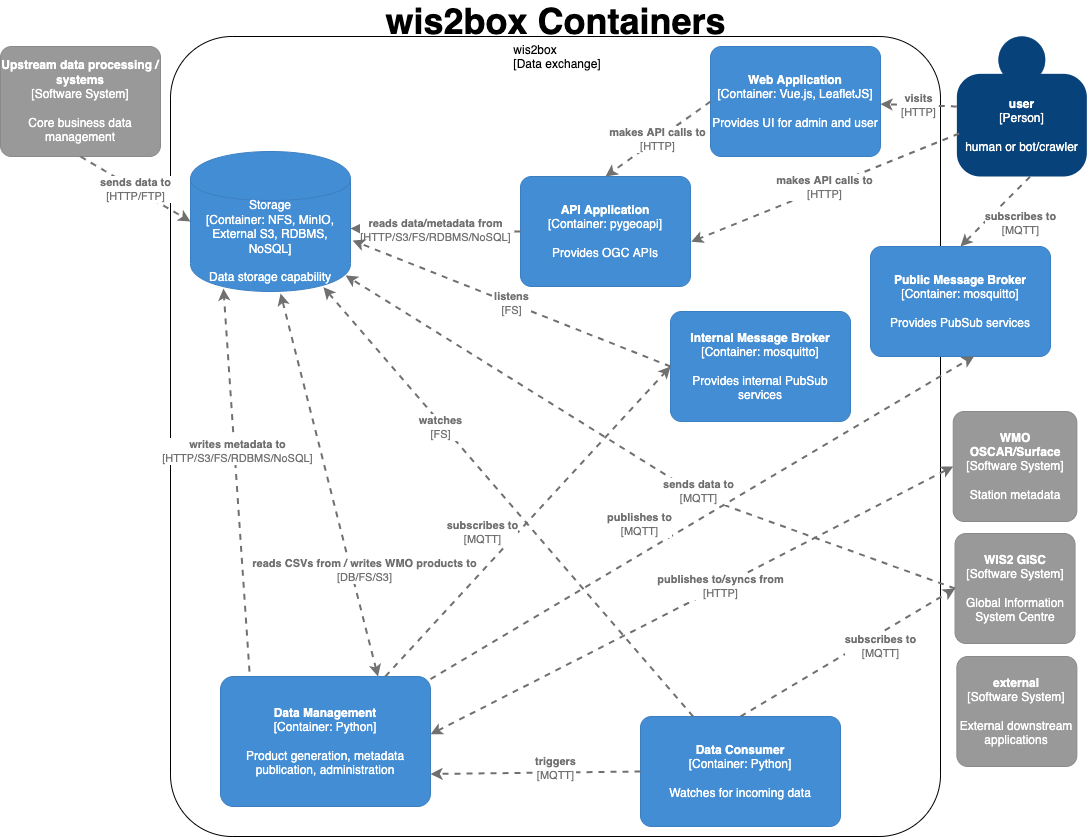
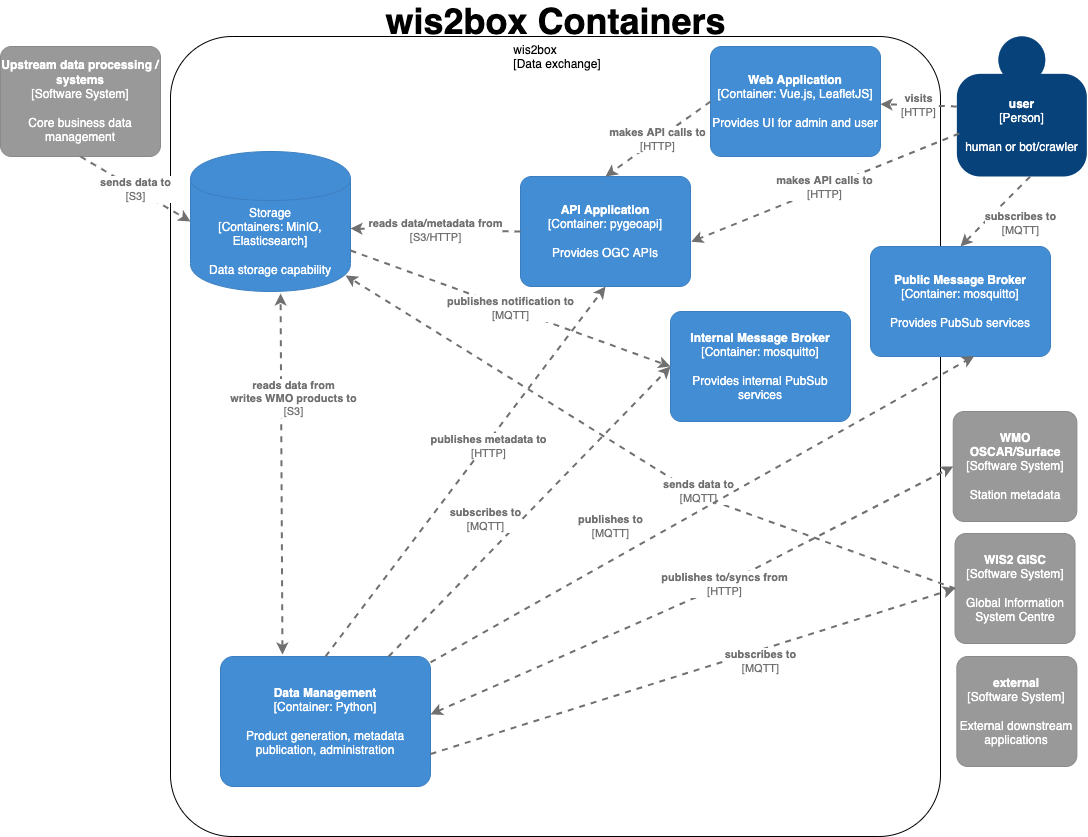
update documentation

diff --git a/docs/source/configuration.rst b/docs/source/configuration.rst
@@ -57,12 +57,13 @@ wis2box stores data in MinIO buckets.
 
     WIS2BOX_STORAGE_TYPE=S3
     WIS2BOX_STORAGE_SOURCE=http://minio:9000
-    WIS2BOX_STORAGE_USERNAME=minio # username for the storage-layer
-    WIS2BOX_STORAGE_PASSWORD=minio123 # password for the storage-layer
-    WIS2BOX_STORAGE_INCOMING=wis2box-incoming # name of the storage-bucket/folder for incoming files
-    WIS2BOX_STORAGE_PUBLIC=wis2box-public # name of the storage-bucket/folder for public files
-    WIS2BOX_STORAGE_CONFIG=wis2box-config # name of the storage-bucket/folder for configuration files
-    WIS2BOX_STORAGE_DATA_RETENTION_DAYS=7 # number of days to keep files in incoming and public
+    WIS2BOX_STORAGE_USERNAME=minio  # username for the storage-layer
+    WIS2BOX_STORAGE_PASSWORD=minio123  # password for the storage-layer
+    WIS2BOX_STORAGE_INCOMING=wis2box-incoming  # name of the storage-bucket/folder for incoming files
+    WIS2BOX_STORAGE_PUBLIC=wis2box-public  # name of the storage-bucket/folder for public files
+    WIS2BOX_STORAGE_ARCHIVE=wis2box-archive  # name of the storage-bucket/folder for archived data
+    WIS2BOX_STORAGE_CONFIG=wis2box-config  # name of the storage-bucket/folder for configuration files
+    WIS2BOX_STORAGE_DATA_RETENTION_DAYS=7  # number of days to keep files in incoming and public
 
 API
 ^^^
@@ -75,6 +76,7 @@ API configurations drive control of the OGC API setup.
     WIS2BOX_API_URL=http://localhost:8999/pygeoapi  # public landing page endpoint
     WIS2BOX_API_BACKEND_TYPE=Elasticsearch  # backend provider type
     WIS2BOX_API_BACKEND_URL=http://elasticsearch:9200  # internal backend connection URL
+    WIS2BOX_DOCKER_API_URL  # container name of API container (for internal communications/workflow)
 
 Logging
 ^^^^^^^
@@ -93,10 +95,11 @@ PubSub configuration provides connectivity information for the PubSub broker.
 
 .. code-block:: bash
 
-    WIS2BOX_BROKER_USERNAME=wis2box
-    WIS2BOX_BROKER_PASSWORD=wis2box
-    WIS2BOX_BROKER_HOST=mosquitto
-    WIS2BOX_BROKER_PUBLIC=mqtt://localhost:1883  # public MQTT url
+    WIS2BOX_BROKER_HOST=mosquitto  # the hostname of the internal broker
+    WIS2BOX_BROKER_PORT=1883  # the port of the internal broker
+    WIS2BOX_BROKER_USERNAME=wis2box  # the username of the internal broker
+    WIS2BOX_BROKER_PASSWORD=wis2box  # the password of the internal broker
+    WIS2BOX_BROKER_PUBLIC=mqtt://foo:bar@localhost:1883  # RFC 1738 URL of public broker endpoint
 
 
 Other

diff --git a/docs/source/how-wis2box-works.rst b/docs/source/how-wis2box-works.rst
@@ -6,9 +6,8 @@ How wis2box works
 wis2box is implemented in the spirit of the `Twelve-Factor App methodology`_.
 
 wis2box is a `Docker`_ and `Python`_-based platform with the capabilities
-for centres to integrate their data holdings and publish them to
-the WMO Information System with a plug and play capability supporting
-data publishing, discovery and access.
+for centres to publish their data holdings to the WMO Information System with
+a plug and play capability supporting data publishing, discovery and access.
 
 High level system context
 --------------------------
@@ -53,11 +52,13 @@ wis2box containers:
 
 Container functionality can be described as follows:
 
-* **Data Consumer**: the data entry point of wis2box. Data pipelines and
-  workflow begins here
+* **Storage**: core data and metadata persistence, the initial data entry
+  point of wis2box. Data pipelines and workflow are triggered from here
+* **Internal Message Broker**: internal message bus
+* **Public Message Broker**: public facing broker. Provides data and metadata
+  notifications
 * **Data Management**: the epicentre of wis2box. Provides core wis2box
   administration and data/workflow/publishing utilities
-* **Storage**: core data persistence
 * **API Application**: OGC APIs providing geospatial web services
 * **Web Application**: user interface
 
@@ -70,9 +71,11 @@ wis2box is built on free and open source (FOSS) technology.
    :header: Container, Function, Technology, Standards
    :align: left
 
-   Data Consumer,PubSub,`mosquitto`_ `MinIO`_, `MQTT`_
+   Storage,data and metadata storage,`MinIO`_ `Elasticsearch`_,`S3`_
+   Internal Message Broker,PubSub,`mosquitto`_, `MQTT`_
+   Public Message Broker,PubSub,`mosquitto`_, `MQTT`_
    Data Management,data processing and publishing,`ecCodes`_ `csv2bufr`_ `bufr2geojson`_ `pygeometa`_ `pyoscar`_,:abbr:`WCMP (WMO Core Metadata Profile)` :abbr:`WMDR (WIGOS Metadata Record)`
-   API Application,data discovery and access, `pygeoapi`_ `Elasticsearch`_,`OGC API`_
+   API Application,data discovery and access, `pygeoapi`_,`OGC API`_
    Web Application,data discovery and visualization,`Vue.js`_ `Leaflet`_,`OGC API`_
 
 
@@ -94,3 +97,4 @@ wis2box is built on free and open source (FOSS) technology.
 .. _`csv2bufr`: https://csv2bufr.readthedocs.io
 .. _`bufr2geojson`: https://github.com/wmo-im/bufr2geojson
 .. _`MinIO`: https://dosc.min.io
+.. _`S3`: https://en.wikipedia.org/wiki/Object_storage

diff --git a/docs/source/overview.rst b/docs/source/overview.rst
@@ -25,7 +25,7 @@ Features
 * event driven or interactive data ingest/process/publishing pipeline
 * visualization of stations/data on interactive maps
 * discovery metadata management and publishing
-* download/access of data from WIS 2.0 network to your local environment
+* download/access of data from the WIS 2.0 network to your local environment
 * standards-based data services and access mechanisms:
 
   * Data formats
@@ -35,7 +35,7 @@ Features
 
   * Message formats
 
-    * `GeoJSON`_
+    * `WIS2 Notification Message Format`_
 
   * Access and notification protocols
 
@@ -49,7 +49,7 @@ Features
 * robust and extensible plugin framework. Write your own data processing engines and integrate
   seamlessly into wis2box!
 * free and open source (FOSS)
-* containerized: use of Docker, enabling easy deployment
+* containerized: use of Docker, enabling easy deployment to cloud or on-premises infrastructure
 
 
 .. _`WIS 2.0 principles`: https://community.wmo.int/activity-areas/wis/wis2-implementation
@@ -60,3 +60,4 @@ Features
 .. _`STAC`: https://stacspec.org
 .. _`BUFR`: https://en.wikipedia.org/wiki/BUFR
 .. _`GeoJSON`: https://datatracker.ietf.org/doc/html/rfc7946
+.. _`WIS2 Notification Message Format`: https://github.com/wmo-im/wis2-notification-message/blob/main/WIS2_Message_Format_README.adoc

diff --git a/docs/source/running/data-mappings.rst b/docs/source/running/data-mappings.rst
@@ -11,9 +11,15 @@ configuration. wis2box provides a default data mapping (in YAML format):
 
 The data mappings are indicated by the ``data`` keyword, with each topic having a separate entry specifying:
 
-- ``plugin``: the codepath of the plugin.
-- ``template``: additional argument allowing a mapping template name to be passed to the plugin.
-- ``file-pattern``: additional argument allowing a file pattern to be passed to the plugin.
+- ``plugins``: all plugin objects associated with the topic, by file type/extension
+
+Each plugin is based on the file extension to be detected and processed, with the following configuration:
+
+- ``plugin``: the codepath of the plugin
+- ``notify``: whether the plugin should publish a data notification
+- ``template``: additional argument allowing a mapping template name to be passed to the plugin
+- ``file-pattern``: additional argument allowing a file pattern to be passed to the plugin
+- ``buckets``: the name(s) of the storage bucket(s) that data should be saved to (See :ref:`configuration` for more informaiton on buckets)
 
 The default data mapping can be overriden by user-defined data mappings with the following steps:
 

diff --git a/docs/source/services.rst b/docs/source/services.rst
@@ -1,4 +1,4 @@
-.. _services:
+. _services:
 
 Services
 ========
@@ -82,7 +82,7 @@ http://localhost:8999/stac
 Web Accessible Folder (WAF)
 ----------------------------
 
-The wis2box `SpatioTemporal Asset Catalog (STAC)`_ endpoint can be found at:
+The wis2box Web Accessible Folder publich bucket endpoint can be found at:
 
 http://localhost:8999/data/
 
@@ -106,9 +106,7 @@ wis2box's architecture allows for additional services as required by
 adding Docker containers. Examples of additional services include adding a container
 for a samba share or FTP server. Key considerations for adding services:
 
-- volume mapping data directories: all wis2box data can be found at ``${WIS2BOX_DATADIR}``
-  - incoming: ``${WIS2BOX_DATADIR}/data/incoming``
-  - public: ``${WIS2BOX_DATADIR}/data/public``
+- Storage buckets can be found at http://minio:9000
 - Elasticsearch indexes can be found at the container/URL ``http://elasticsearch:9200``
 
 Examples of additional services can be found in ``docker/extras``.

diff --git a/docs/source/administration.rst b/docs/source/administration.rst
@@ -40,3 +40,29 @@ With wis2box now installed and started, it's time to start up the box and login 
 
 Now that you are logged into the wis2box container, it's now time to manage station metadata, discovery metadata
 and data processing pipelines.
+
+Default service ports
+---------------------
+
+A default wis2box installation utilizes the following ports for public services:
+
+Public services
+^^^^^^^^^^^^^^^
+
+- 8999: Web application, API application, storage
+- 1883: Message broker
+
+
+Internal services
+^^^^^^^^^^^^^^^^^
+
+- 1883: Message broker
+- 9200: Elasticsearch
+- 9000: MinIO
+- 9001: MinIO admin UI
+
+Changing default ports
+^^^^^^^^^^^^^^^^^^^^^^
+
+The ``docker/docker-compose.override.yml`` file provides definitions on utilized ports.  To change default
+ports, edit this file and ``docker/default.env``  before stopping and starting wis2box for changes to take effect.

diff --git a/docs/source/running/concepts.rst b/docs/source/running/concepts.rst
@@ -6,9 +6,9 @@ Concepts
 Let's clarify a few concepts as part working with wis2box:
 
 
-- **topic hierarchy**: thesaurus defined by WMO to categorize and classify
-  data, allowing for easy and efficient search
-- **discovery metadata**: description of a dataset to be included in the WIS 2.0 global catalogue
+- **topic hierarchy**: structure defined by WMO to categorize and classify
+  data, allowing for easy and efficient search and identification
+- **discovery metadata**: description of a dataset to be included in the WIS 2.0 Global Discovery Catalogue
 - **catalogue**: a collection of discovery metadata records
 - **station metadata**: description of the properties of an observing station, which provides observations and measurements
 - **data mappings**: the wis2box mechanism to define and associate a topic hierarchy to a processing pipeline

diff --git a/docs/source/development.rst b/docs/source/development.rst
@@ -9,18 +9,25 @@ codebase can be found at https://github.com/wmo-im/wis2box.
 Testing
 -------
 
+wis2box continuous integration (CI) testing is managed by GitHub Actions. All commits and
+pull requests to wis2box trigger continuous integration (CI) testing on `GitHub Actions`_.
+
+GitHub Actions invokes functional testing as well as integration testing to ensure regressions.
+
 Unit testing
 ^^^^^^^^^^^^
-TODO
+
+Unit tests are in ``tests/unit``.
 
 Integration testing
 ^^^^^^^^^^^^^^^^^^^
-TODO
+
+Integration tests are in ``tests/integration/integration.py``.
 
 Functional testing
 ^^^^^^^^^^^^^^^^^^
 
-All commits and pull requests to wis2box trigger continuous integration (CI) testing on `GitHub Actions`_.
+Functional tests are defined as part of GitHub Actions in ``.github/workflows/tests-docker.yml``.
 
 Versioning
 ----------

diff --git a/docs/source/monitoring/grafana.rst b/docs/source/monitoring/grafana.rst
@@ -3,7 +3,7 @@
 Grafana dashboards
 ==================
 
-Grafana is exposed via `/monitoring` on the localhost running wis2box.  The home dashbaord
+Grafana is exposed via ``/monitoring`` on the localhost running wis2box.  The home dashbaord
 can be visuais made available 
 
 Go to http://localhost/monitoring to see the home dashboard of wis2box once the stack is running. 
@@ -13,4 +13,4 @@ Go to http://localhost/monitoring to see the home dashboard of wis2box once the 
    :alt: Grafana Home dashboard 
    :align: center
 
-The home dashboard is defined in the source code in `docker/grafana/dashboards/home.json`
+The home dashboard is defined in the source code in ``docker/grafana/dashboards/home.json``.

diff --git a/docs/source/running/data-ingest-processing-and-publishing.rst b/docs/source/running/data-ingest-processing-and-publishing.rst
@@ -49,8 +49,8 @@ Implicit topic hierarchy workflow
 Event driven ingest, processing and publishing
 ----------------------------------------------
 
-One all metadata, topic hierarchies, and data configurations are setup, event driven workflow
-will immediately start to listen on files in ``WIS2BOX_DATADIR/data/incoming`` as they are
+Once all metadata and topic hierarchies are setup, event driven workflow
+will immediately start to listen on files in the ``wis2box-incoming`` storage bucket as they are
 placed in the appropriate topic hierarchy directory.
 
 .. note::

diff --git a/docs/source/running/topic-hierarchy.rst b/docs/source/running/topic-hierarchy.rst
@@ -5,9 +5,11 @@ Topic hierarchy
 
 .. note::
 
-   The WIS 2.0 topic hierarchies are currently in development. wis2box implementation
+   The `WIS 2.0 topic hierarchy`_ is currently in development. wis2box implementation
    of the topic hierarchies will change, based on ratifications/updates of the topic
    hierarchies in WMO technical regulations and publications.
 
 wis2box implements the WIS 2.0 topic hierarchies, which are designed to efficiently
 categorize and classify data.
+
+.. _`WIS 2.0 topic hierarchy`: https://github.com/wmo-im/wis2-topic-hierarchy

diff --git a/docs/source/quickstart.rst b/docs/source/quickstart.rst
@@ -77,7 +77,3 @@ Logout of wis2box container:
 From here, you can run ``python3 wis2box-ctl.py status`` to confirm that containers are running.
 
 To explore your wis2box installation and services, visit http://localhost:8999 in your web browser.
-
-To view the Minio UI to see the wis2box storage buckets, visit http://localhost:9001. 
-Minio username and password are configured throught your environment variables, see :ref:`configuration`.
-Default username/password is minio/minio123
